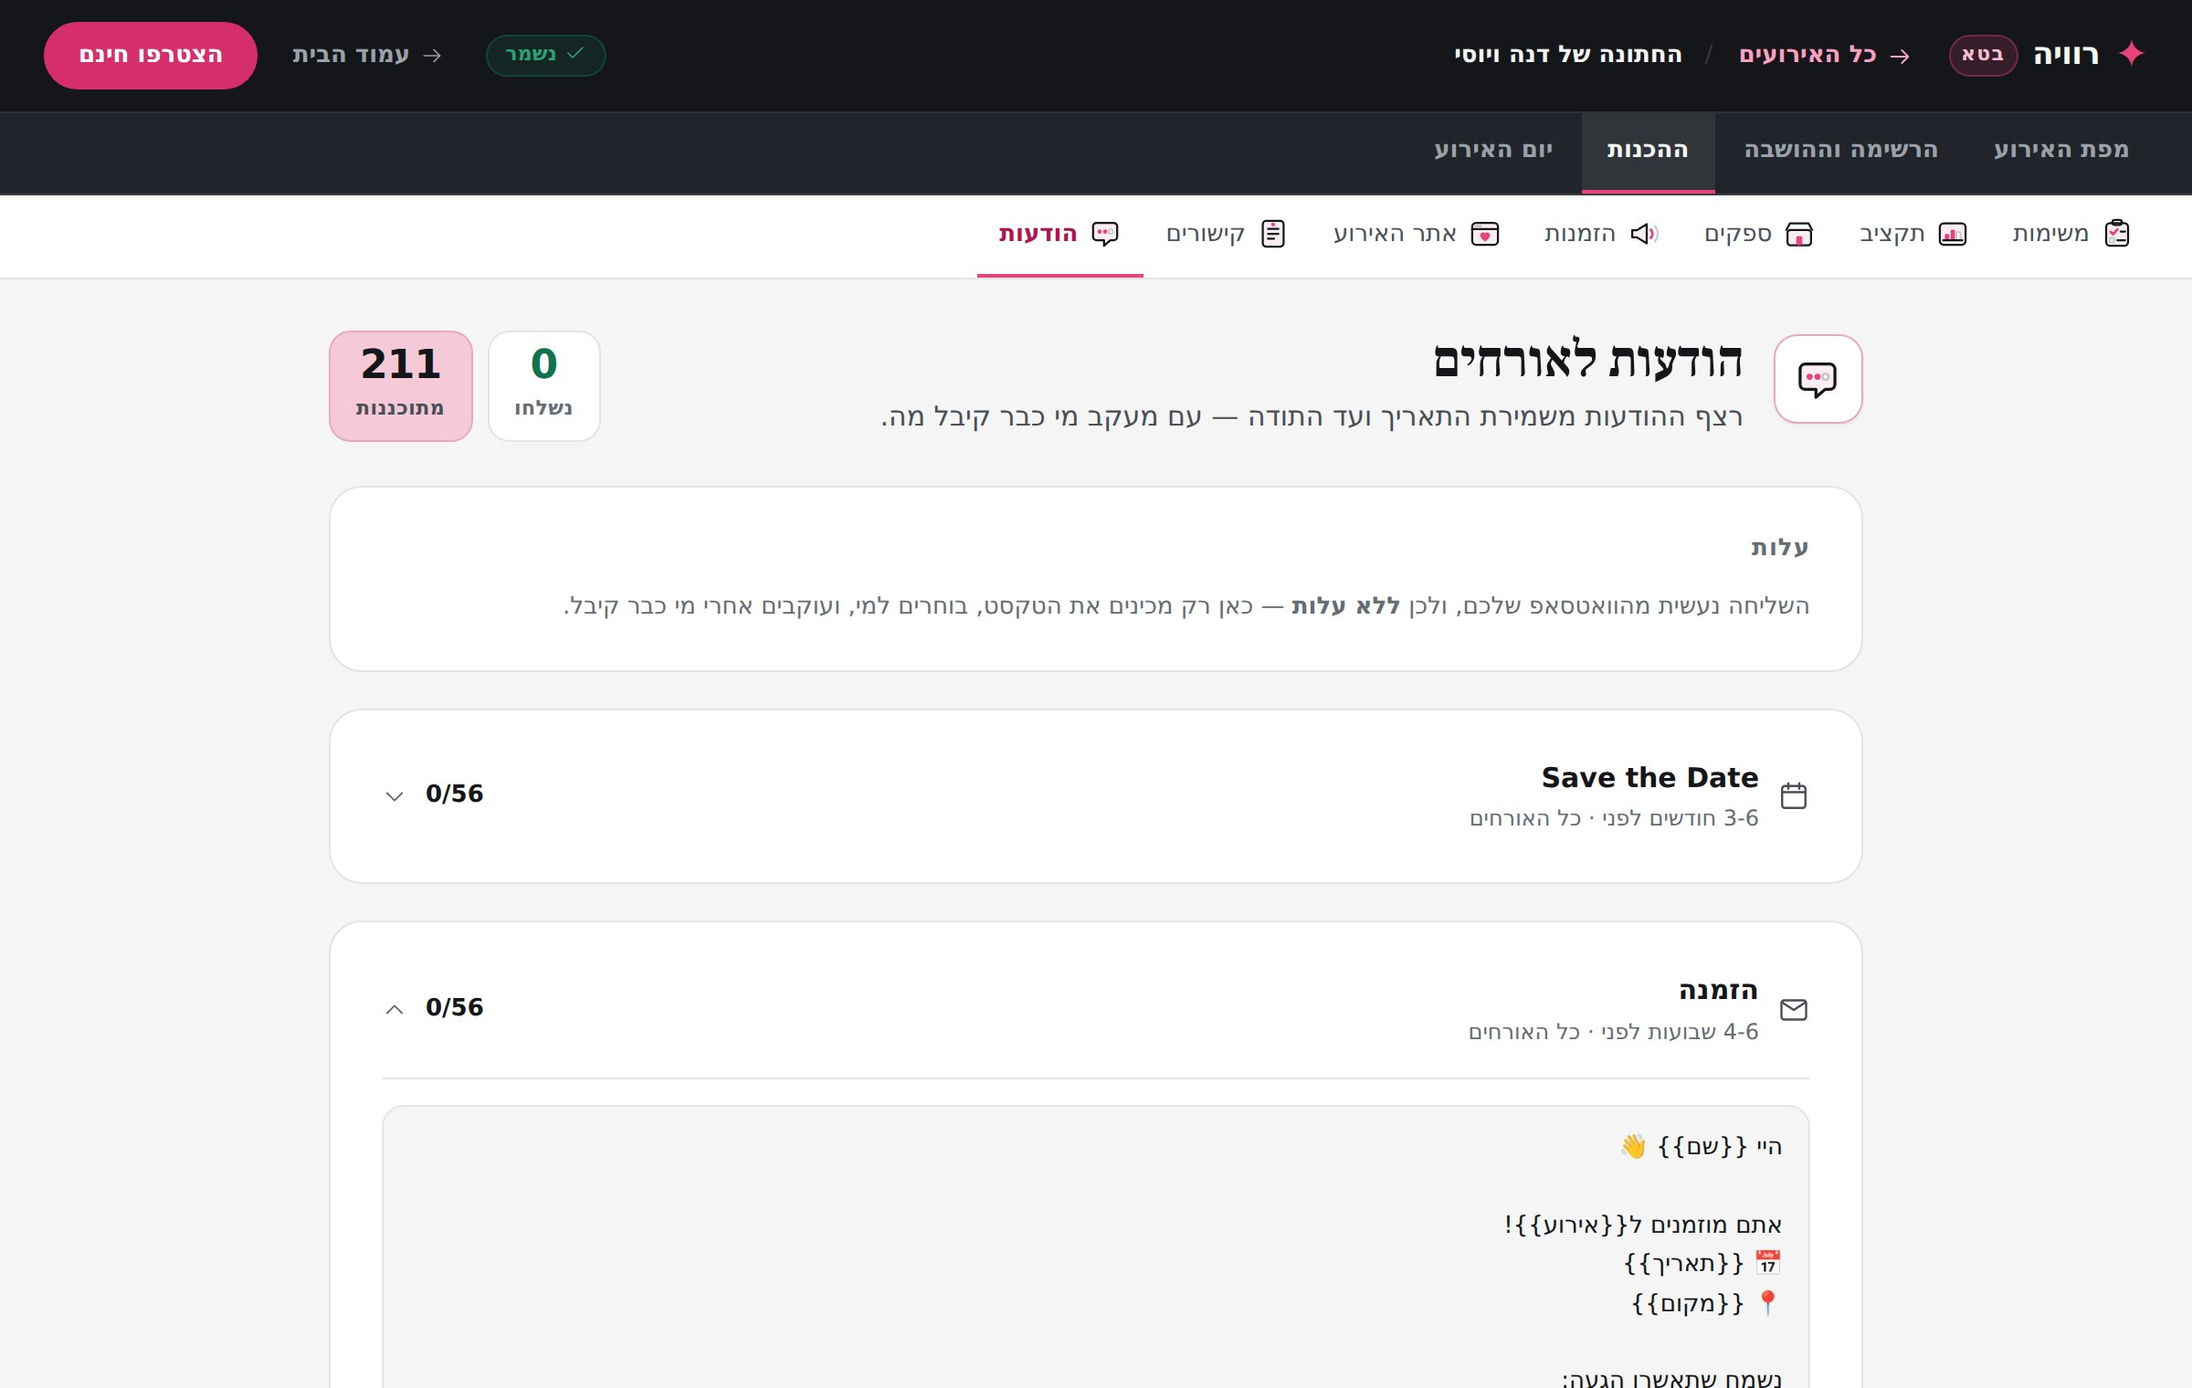
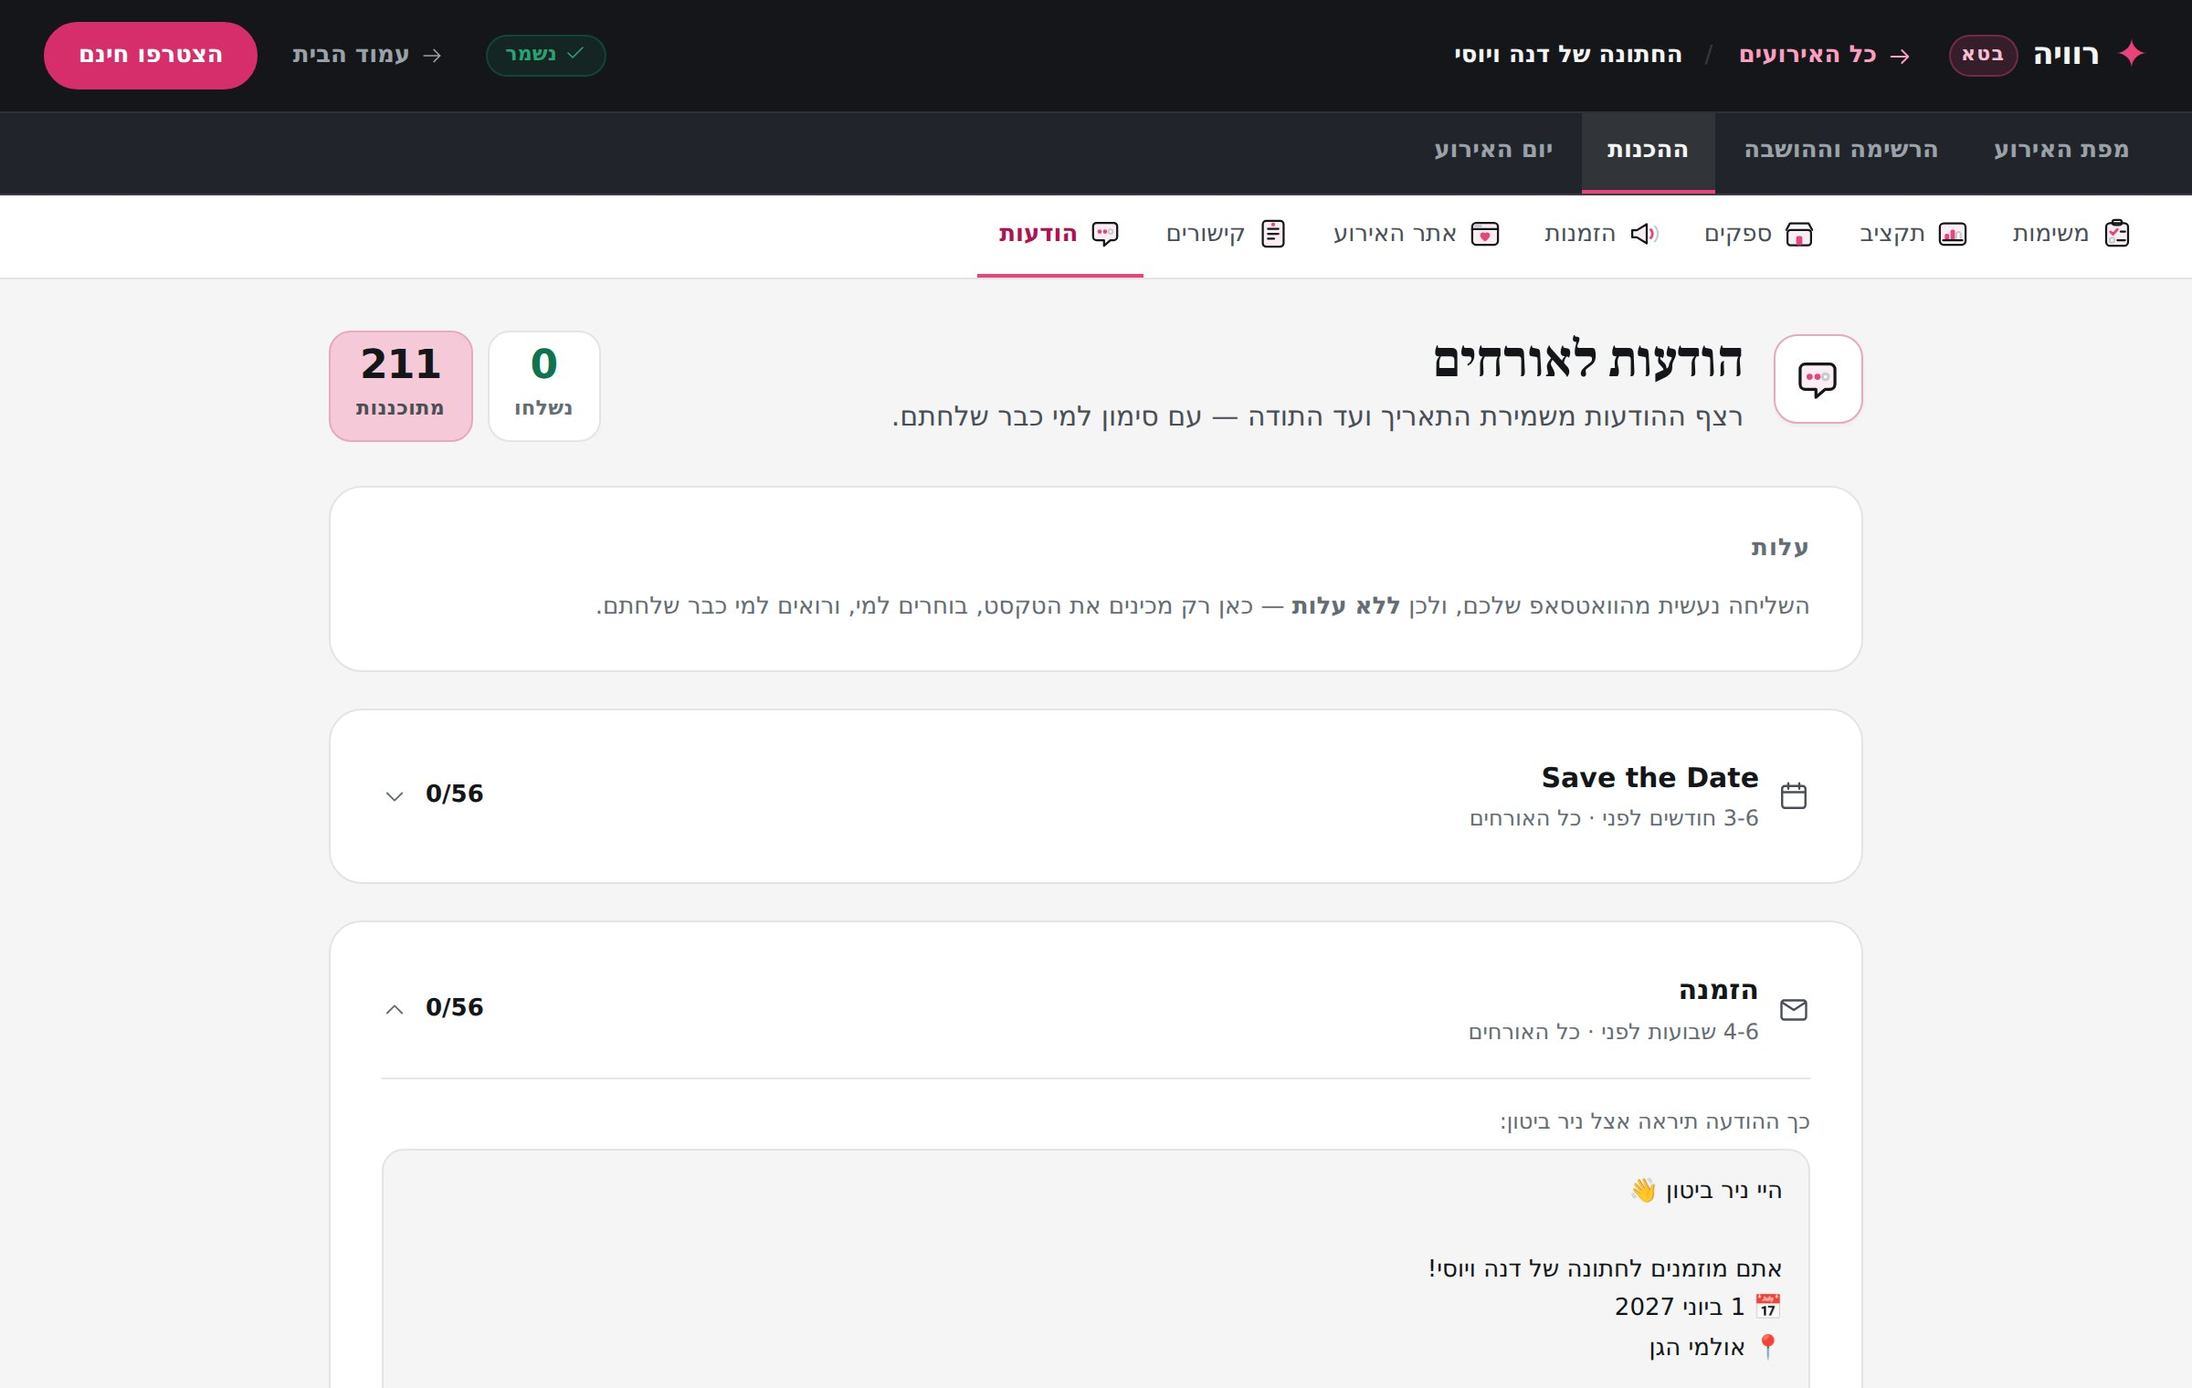
chore(shots): retake the stale product screenshots (105)
Regenerated from the product with qa/marketingShots.mjs and
qa/marketingShotsGift.mjs (same seed). costs.jpg now shows 96 like the
seating (was 99), messages.jpg shows the filled preview from 108,
gift-form.jpg the current copy, nametags.jpg current. checkin.jpg and
tables.jpg also changed on this run; looked at, consistent.

Claude-Session: https://claude.ai/code/session_0154KGCmZq8cuPSRHfRxH69u

Changed region(s): [[0.6562, 0.8039, 0.8125, 1.0], [0.4062, 0.2783, 0.5312, 0.3092], [0.2812, 0.4329, 0.375, 0.4638]]

diff --git a/WORKPLAN.md b/WORKPLAN.md
@@ -270,7 +270,7 @@
 | 102 | 🔐 **אבטחה — פתוח, מתועד.** **A1** אלבום: מי שמחזיק קישור יכול למלא 5,000 קבצים (התקרה מ-74 חוסמת, לא מונעת) · **A4** שרשרת בידוד הטוקנים — לפי תכנון, לתעד · **A6** — נבדק 28.9: **כבר יש תקרות** (משוב 100 לשעה; שגיאות 50 למסך לשעה + מכסה נפרדת לאנונימיים). הצפה יכולה למלא את התקרה ולחסום משוב אמיתי לשעה; הגבלה לפי שולח דורשת IP מהכותרות — לא נבדק · **B8 אף שער בתשלום לא נאכף בשרת** (= 42) · **B9** מרוץ ב-`claim_ai_call` · **chargebacks לא מטופלים ב-webhook** · CSP מלא (נשאר בכוונה — טעות בו מלבינה את האתר בשלב שלא רץ כאן). **הקשחה:** ~~לנעוץ גרסאות `esm.sh`~~ ✅ 28.9 (stripe 14.25.0, supabase-js 2.117.2 — מה שהטווחים נתנו באותו יום) · `planFromPrice` בלי fallback למטא-דאטה · `subscriptions.user_id ON DELETE CASCADE` מוחק רשומות תשלום · CORS `*` (נבדק: נקודות קצה עם bearer token בלי cookies — לא נתיב CSRF) · `err.message` גולמי (נבדק: בזיהוי שולחנות **בכוונה**, מתועד בקוד) · ~~קישור הדיילת לא ניתן לביטול~~ ✅ 28.9 — כפתור "החליפו קישור" בעמדת הכניסה, אחרי אישור · ~~ה-Service Worker לא מנקה ביציאה~~ ✅ 28.9 — המטמון נמחק ביציאה מהחשבון · `search_path` בלי `pg_temp`. | 🤖 |
 | 103 | ⚖ **טקסטים משפטיים — דורשים את עינך, לא תיקנתי.** **תנאי שימוש:** סעיף ביטול מנוי (עכשיו תשלום חד-פעמי — **מדיניות ההחזר היא החלטה שלך**) · §4 מזכיר ביט/PayBox שלא קיימים במוצר. **פרטיות:** §6 אומר שאפשר למחוק חשבון ממסך החשבון — **אין כזה כפתור** · חסרים מעבדי מידע: PostHog, Anthropic (זיהוי שולחנות), Google Fonts · לא מוזכרים: תמונות + מחיקה אחרי 30 יום, שדות אישור ההגעה, הקישורים הציבוריים. | 👤 |
 | 104 | 📣 **טקסט שיווקי — תלוי בהחלטה שלך, לא תיקנתי.** "מתנות באשראי" בתפריט (השם שבחרת; 90/46) · "קונים את האירוע" / "משלמים כשמגיעים" לפני ש-Stripe חי (41) · סבבי שיחות מתומחרים מול "בפיתוח" (89) · פריטים ברשימת החבילה בתשלום שאין להם שער (אילוצים, כרטיסי שם, עמדת כניסה — 42) · "כל האילוצים מכובדים" (המנוע מכבד כשאפשר, לא תמיד) · "אותו קישור" בעמוד אתר האירוע · עמוד יום האירוע: החלפת קישור הדיילת (לא קיים, ראו 102) · "התשובות נכנסות אוטומטית" (= ת) · קהל התזכורת כולל "אולי" · `₪{n}/אורח` במסך העלויות (bidi, ראו 109). | 👤 |
-| 105 | 📸 **צילומי מסך ישנים באתר:** `costs.jpg` (99 אורחים מול 96), `messages.jpg`, `nametags.jpg`, ו-`gift-form.jpg` (הטקסט בו תוקן היום ב-100). | 🤖 |
+| 105 | ✅ **29.9 — צולמו מחדש מהמוצר** (`qa/marketingShots.mjs` + `qa/marketingShotsGift.mjs`, אותו seed): `costs.jpg` מראה 96 כמו ההושבה, `messages.jpg` מראה את ההודעה כפי שאורח יקבל אותה (108), `gift-form.jpg` עם "₪50 ומעלה" ו"מה קורה עכשיו?", `nametags.jpg` עדכני. גם `checkin.jpg` ו-`tables.jpg` השתנו בריצה — נבדקו בעין, עקביים (96 מקומות). ~~📸 **צילומי מסך ישנים באתר:** `costs.jpg` (99 אורחים מול 96), `messages.jpg`, `nametags.jpg`, ו-`gift-form.jpg` (הטקסט בו תוקן היום ב-100).~~ | 🤖 |
 | 106 | 🟡 **9 מ-12 נסגרו 28.9:** בדף המתנה המינימום (₪50) כתוב מראש, ומונה תווים מופיע ליד מגבלת הברכה · הטבלה השיתופית מציעה גם את הקבוצות שהמארח יצר (מיגרציה `20260928000600`) · שדה "כמה מגיעים" ניתן למחיקה ולהקלדה מחדש (היה קופץ ל-1, ו"3" הפך ל-13) · כל דף מקבל מהשרת רק מה שהוא מציג — **טלפון איש הקשר רק לאתר**, האלבום/המתנה/הדיילת בלי אתר בכלל · הגדרות ה-RSVP (הודעה, הסעות) לא נעלמות כשהאתר לא פורסם · מסך הסיום של RSVP מקשר רק למה שהמארח הדליק · "אחר" לא מודפס יותר לאורח (RSVP, אתר, תצוגת וואטסאפ) · כפתור התמיכה של רוויה לא מופיע בדפי אורחים · לשונית הדפדפן בכל דף אורח נקראת בשם האירוע ("אישור הגעה · דנה ויוסי"). **נשאר:** מקרי קצה ב-OG. 🧑🤝🧑 **דפי אורחים — פתוח.** תצוגה מקדימה בוואטסאפ רק ל-`/invite/` (= ר; 5 מתוך 6 הקישורים בהודעות נראים כפרסומת למוצר) · שדה מספר האורחים ב-RSVP לא ניתן לריקון (לאמת בריצה) · הגדרות RSVP לא נשמרות אם האתר לא פורסם · מסך הסיום של RSVP מתעלם מהגדרות המתנה/אתר של המארח · **כל סוגי הטוקנים מקבלים את כל האתר כולל טלפון איש הקשר** · "אחר" מוצג גולמי · לוח שנה/ספירה לא עקביים (= ס) · הטבלה השיתופית מתעלמת מהקבוצות של המארח · מגבלות המתנה לא מוסברות · כותרת הלשונית בדפי אורחים · כפתור התמיכה מופיע גם לאורחים · מקרי קצה בכותרת ה-OG. | 🤖 |
 | 107 | 🏠 **מסכי מארח — פתוח.** ~~**מיזוג בין מכשירים:** כשהמקומי מנצח, הסידור של המכשיר השני הולך~~ ✅ 29.9 — נמדד (`seating {g1}` במקום `{g1,g2}`) ותוקן כמראה של 76 · מחיקות חוזרות לחיים: ✅ **נעילות** תוקנו 29.9 (אותו כלל של שורות מוכרות) · ⬜ **איפוס סימוני שלב ואיפוס תבנית** עדיין חוזרים מהמכשיר השני — דורש חותמת זמן לכל מפתח (שדה מסונכרן חדש), לא תיקון קטן · ~~אישורי הגעה מוחלים שוב במכשיר שני~~ ✅ (ת3) · ~~הגשה כפולה נספרת פעמיים~~ ✅ תוקן 28.9 (ת4) · **מי שסירב אחרי ששובץ עדיין תופס כיסא ומודפס** (החלטה: לשחרר אוטומטית או לסמן?) · ~~ספירת מנות~~ ✅ 28.9 — מנות לפי מקומות של מי שמגיע, לא לפי שורות · ~~"מתוך 16 אורחים" בעלויות מול "מתוך 48" בכניסה~~ ✅ 29.9 — בעלויות: "מתוך 16 רשומות (כל רשומה היא מתנה אחת)" · ~~עמדת הכניסה של המארח לא מתרעננת~~ ✅ (ב2) · ~~שולחן לאורח מזדמן~~ ✅ 29.9 — שולחן שנבחר ואז הוגדלה הכמות כבר לא משבץ בלי מקום · הודעות "נשמר" לפני שהענן אישר · ~~מסך העלויות דורס עריכה ישנה~~ ✅ 29.9 — תקציב שהגיע ממכשיר אחר בזמן שהמסך פתוח נקלט, והעריכה הבאה נבנית עליו · ~~מעצבי תאריך כפולים~~ ✅ 29.9 — שניהם ב-`dateFormat.js`, וטסט נופל אם מסך מגדיר formatDate משלו · ~~צבעים קשיחים~~ ✅ 29.9 — `planConfig` + `AccountScreen` על tokens, כל זוג נמדד ≥4.5:1 (כולל טסט שמודד מ-tokens.css). **נבדק ונשאר בכוונה:** `QrCode` (ספרייה שמציירת על canvas ולא קוראת משתני CSS) והדפסת כרטיסי השם (דיו על נייר, מתועד בקובץ). `CapBar` — לא נמצא בו צבע קשיח; הטענה הייתה שגויה · ~~`cssmod` לא בודק שמות מחושבים~~ ✅ 29.9 — `computedClasses.test.js`: 6 אתרים של `styles["x_" + ערך]` נבדקים מול ערכי המקור (חומרה, עדיפות, סטטוס ספק, פריסה, גודל תג), וטסט נופל אם נוסף אתר חדש שלא ברשימה. נוכח נופל על שינוי שם מחלקה ועל אתר לא רשום. | 🤖 |
 | 108 | ♿ **מבנה ונגישות (דפדפן).** ~~אין `h1` ב-16 מסכי האירוע ובעמדת הכניסה~~ ✅ 29.9 — הכותרת של `PageHeader` היא ה-`h1`, בעמדת הכניסה שם האירוע; `EmptyState` עלה ל-`h2` כדי שלא תדלג רמה · ~~במרכזייה `h2` לפני ה-`h1`, וב-390 ה-`h1` מתחת לקפל~~ ✅ 29.9 — פאנל ההסבר נפתח מתחת לשם האירוע (החלק של "מתחת לקפל" לא שוחזר: ב-390×844 עם הפיקסצ'ר שלי השם היה מעל הקפל גם בסדר הישן — הסדר תוקן בכל מקרה) · ~~דפי "לא נמצא" ציבוריים בלי `h1` ובלי דרך החוצה~~ ✅ 29.9 — בכל 9 דפי האורחים הכותרת של מצב השגיאה (לא נמצא וגם אין חיבור) היא `h1`, ובכל "לא נמצא" יש "לדף הבית"; נמדד שהכותרת נראית בדיוק כמו קודם (גופן, גודל, משקל, ריווח, צבע) · `qa/headings.mjs` חדש (17 מסכים × מלא/ריק + מרכזייה) ו-`qa/linkUnreachable.mjs` בודק h1 ודרך החוצה · ~~שדות עם placeholder בלבד~~ ✅ 29.9 — `aria-label` לחיפוש האורחים, לשאלה/תשובה ב-FAQ (וגם לכפתור ✕ שלה), ולשמות הקטגוריות בעלויות · ~~תצוגת ההודעה מראה `{{שם}}` גולמי~~ ✅ 29.9 — התצוגה היא ההודעה עצמה, ממולאת לאורח אמיתי של השלב דרך אותה פונקציה שבונה את מה שנשלח ("כך ההודעה תיראה אצל טל שוורץ:") · אנגלית בדפים עבריים ("OUR WEDDING DAY") — כנראה מכוון, לא נגעתי. | 🤖 |
